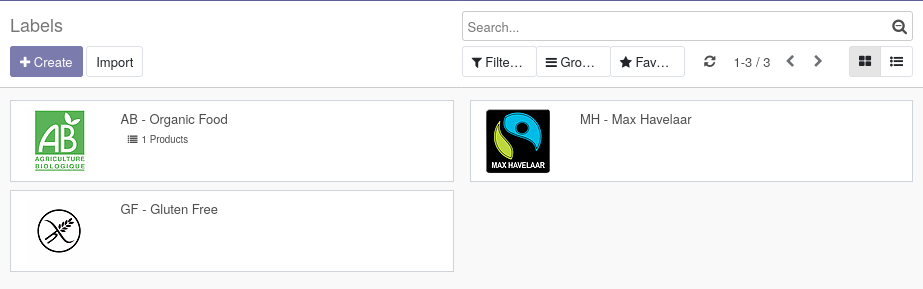
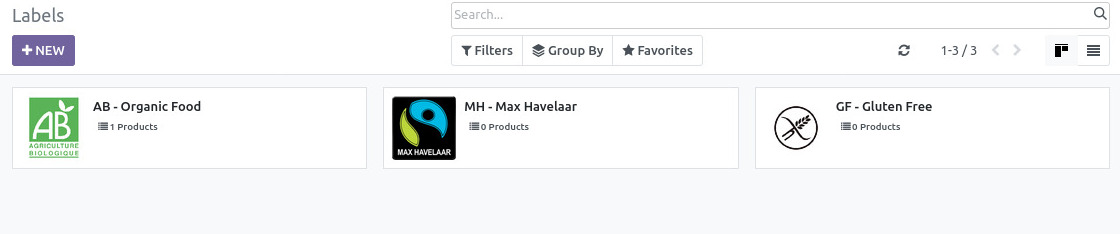
[MIG] product_label

diff --git a/product_label/models/product_label.py b/product_label/models/product_label.py
@@ -3,7 +3,7 @@
 # @author Julien WESTE
 # License AGPL-3.0 or later (http://www.gnu.org/licenses/agpl.html).
 
-from odoo import api, fields, models, tools
+from odoo import api, fields, models
 
 
 class ProductLabel(models.Model):
@@ -11,17 +11,17 @@ class ProductLabel(models.Model):
     _description = "Product Labels"
 
     # Columns Section
-    code = fields.Char(string="Code", required=True)
+    code = fields.Char(required=True)
 
-    name = fields.Char(string="Name", required=True)
+    name = fields.Char(required=True)
 
-    active = fields.Boolean(string="Active", default=True)
+    active = fields.Boolean(default=True)
 
     company_id = fields.Many2one(comodel_name="res.company", string="Company")
 
-    website = fields.Char(string="Website")
+    website = fields.Char()
 
-    note = fields.Text(string="Note")
+    note = fields.Text()
 
     display_on_report = fields.Boolean(
         string="Display on Reports",
@@ -41,23 +41,15 @@ class ProductLabel(models.Model):
         string="Product Quantity", compute="_compute_product_qty"
     )
 
-    image = fields.Binary(string="Image", attachment=True)
-
-    image_medium = fields.Binary(string="Medium-sized image", attachment=True)
-
-    image_small = fields.Binary(string="Small-sized image", attachment=True)
+    image = fields.Image(max_width=1920, max_height=1920)
+    image_medium = fields.Image(
+        related="image", max_width=512, max_height=512, store=True
+    )
+    image_small = fields.Image(
+        related="image", max_width=128, max_height=128, store=True
+    )
 
     @api.depends("product_ids")
     def _compute_product_qty(self):
         for label in self:
             label.product_qty = len(label.product_ids)
-
-    @api.model_create_multi
-    def create(self, vals_list):
-        for vals in vals_list:
-            tools.image_resize_images(vals, sizes={"image": (1024, None)})
-        return super().create(vals_list)
-
-    def write(self, vals):
-        tools.image_resize_images(vals, sizes={"image": (1024, None)})
-        return super().write(vals)

diff --git a/product_label/readme/CONTRIBUTORS.rst b/product_label/readme/CONTRIBUTORS.rst
@@ -1,2 +1,3 @@
 * Julien WESTE
 * Sylvain LE GAL (https://www.twitter.com/legalsylvain)
+* Quentin DUPONT
